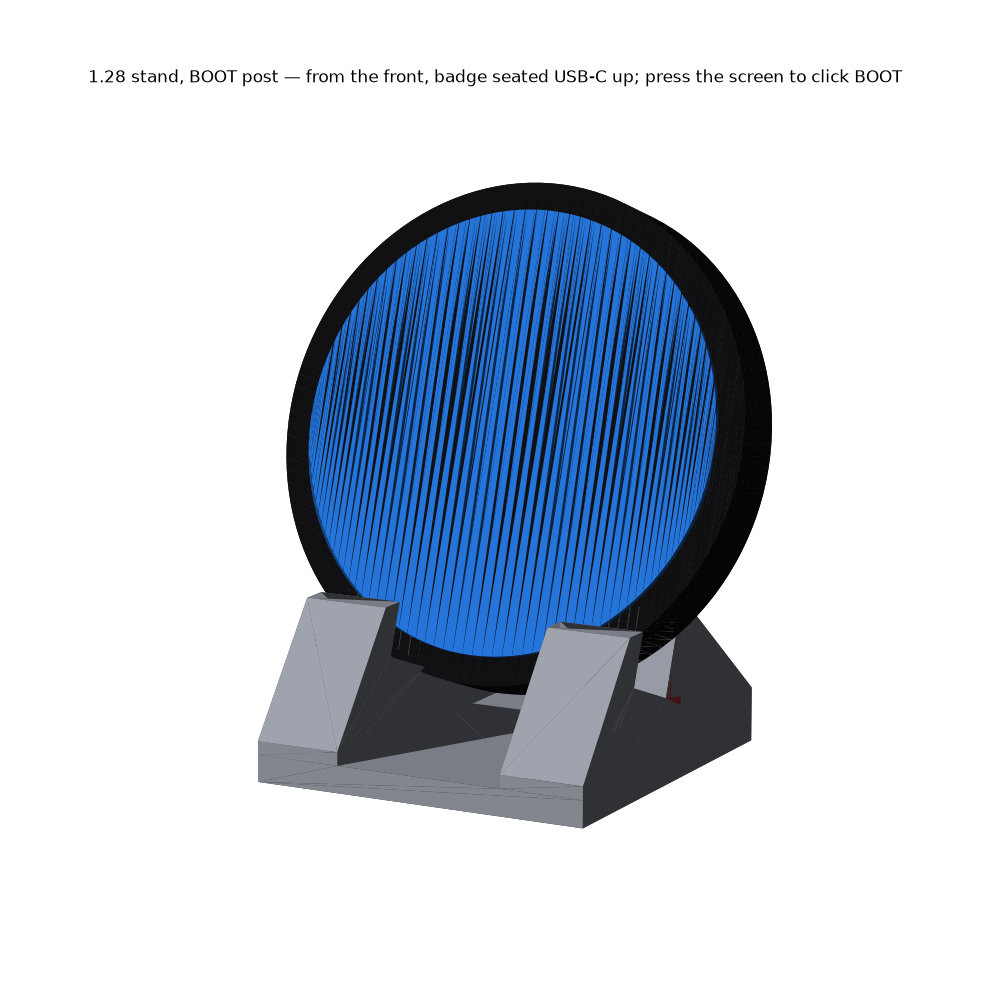
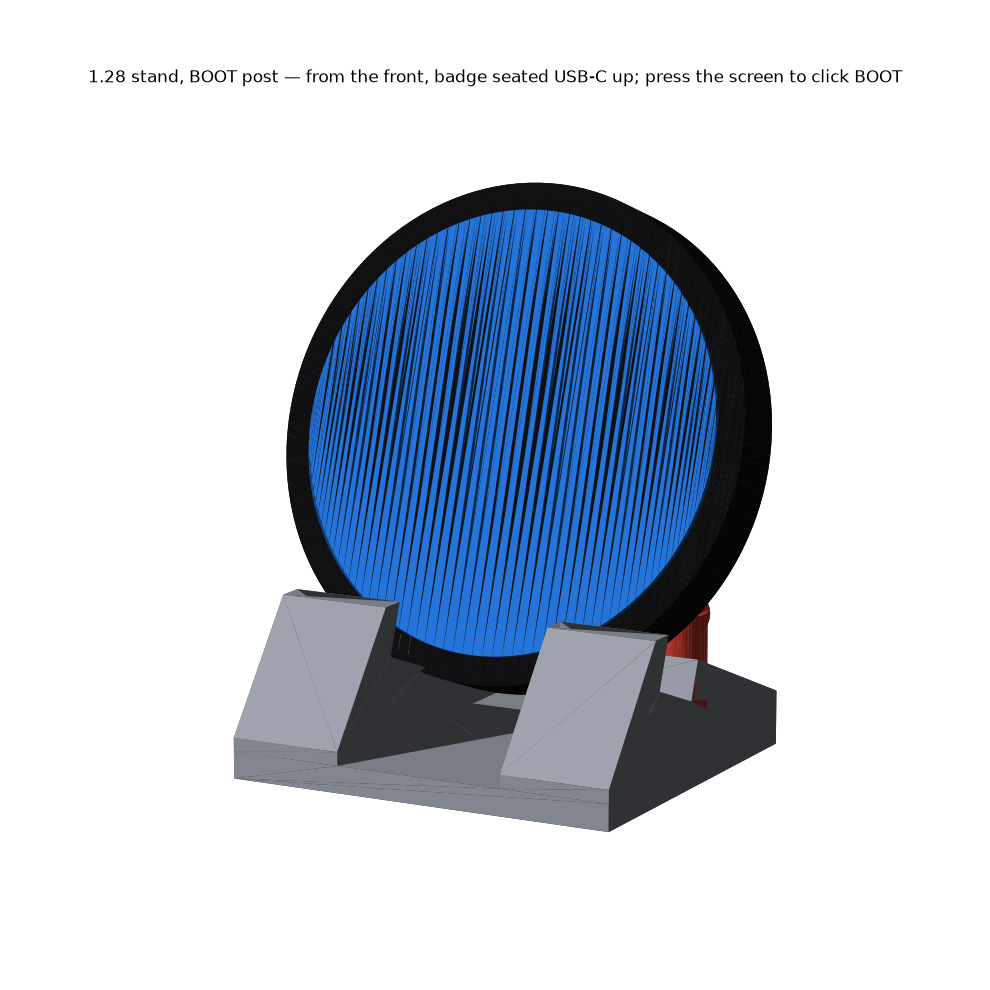
1.28: stop the groove rear wall short -- the switches are at the rim, not r 12
Measured BOOT/RESET off Aarons own back-view photo: r 15.5, 2.7 mm in from
the rim, where the drawing put them at r 12.2. At that radius the switch
housing sits below the groove rear lip, and since it stands ~1.7 mm off the
PCB the badge is ~6.4 mm thick there -- it cannot enter a 5.4 mm groove at
any depth. That propped the badge proud and forward, so the post could not
reach the button.

New rear_lip parameter stops the rear wall 3.0 mm up the board (front wall
untouched, badge still held 5 mm deep). Housings clear by 1.8 mm and the
pivot drops, taking press travel at the switch from 0.02 mm to 1.33 mm.
width 26 -> 30 to root the post. Both facts now asserted at build time.

Claude-Session: https://claude.ai/code/session_01H9ws9Nyoa4VGHhn154ro46

Changed region(s): [[0.5758, 0.6061, 0.7879, 0.8485], [0.2121, 0.5758, 0.3333, 0.7879], [0.697, 0.7576, 0.7576, 0.7879]]

diff --git a/build_stand_button.py b/build_stand_button.py
@@ -26,8 +26,14 @@ bs = importlib.util.module_from_spec(spec); spec.loader.exec_module(bs)
 
 BUTTON = (sys.argv[1] if len(sys.argv) > 1 else "BOOT").upper()
 # front-view mm from disc centre, +x = your right, +y = up   (back-view x negated)
-SWITCH = {"BOOT": (+8.95, -8.28), "RESET": (-9.67, -8.31)}[BUTTON]
+# MEASURED off Aaron's own back-view photo 09-20, not off the drawing: scale from
+# the PCB's widest row (36.50 mm, unforeshortened), |x| from the switch-to-switch
+# separation, height from the board's half-width at the switches' own row. The
+# drawing-derived (+8.95,-8.28) was 2.2 mm too high and 3.3 mm too far in, which
+# is why the housing fouled the groove. Overlay: reference/switches-from-photo.png
+SWITCH = {"BOOT": (+11.45, -10.51), "RESET": (-11.45, -10.51)}[BUTTON]
 CAP_H     = 2.0    # PCB surface to top of the switch actuator
+SW_BODY   = 3.5    # white housing, across (measured: 3.4 x 3.5 in the photo)
 REST_CLR  = 0.20   # post tip stands off the cap at rest
 POST_R    = 1.6    # Ø3.2 pad -- forgiving of ±1 mm in the measurement
 POST_LEN  = 14.0   # reaches back into the ridge/ramp
@@ -87,15 +93,24 @@ print(f"{BUTTON} switch at front-view ({SWITCH[0]:+.2f}, {SWITCH[1]:+.2f}) mm  -
       if SWITCH[0] > 0 else
       f"{BUTTON} switch at front-view ({SWITCH[0]:+.2f}, {SWITCH[1]:+.2f}) mm  ->  stand x={tip[0]:.2f} (shoulder 0..{x1:.1f})")
 print(f"post tip   y={tip[1]:.2f} z={tip[2]:.2f}   Ø{2*POST_R:.1f} pad; column Ø{2*(POST_R+0.4):.1f} stands {col_free:.1f} mm out of the shoulder, {buried:.1f} mm rooted")
-lip_h = p["base_h"]                                                 # groove opening (rear lip) height
-btn_up = (tip[2] - bc[1]) / axis[1]                                # along the board, from the groove floor
-print(f"switch sits {btn_up:.1f} mm up the badge; rear lip at {p['depth']:.0f} mm  ->  lever to the top ≈ "
-      f"{(2*R - btn_up)/(btn_up - p['depth']):.0f}x")
-# Can a press actually click it? Fully rocked back the badge lies on the rear lip with its bottom
-# front edge on the front wall; the cap must be able to travel well past the pad before that.
+# Everything below is measured along the board, up from the groove floor.
 SW_TRAVEL = 0.25                                                    # typical tact switch
-u_lip = p["depth"] + G/2*math.tan(math.radians(p["lean"]))         # rear lip, up the board from the groove floor
-u_sw  = (R - sag) + SWITCH[1]                                       # switch, up the board from the groove floor
+full_wall = p["depth"] + G/2*math.tan(math.radians(p["lean"]))     # rear wall if it ran to the ridge
+u_lip = p.get("rear_lip", full_wall)                                # where it actually stops
+u_sw  = (R - sag) + SWITCH[1]                                       # the switch
+print(f"switch sits {u_sw:.2f} mm up the badge; rear lip at {u_lip:.2f} (full wall would be {full_wall:.2f})"
+      f"  ->  lever to the top ≈ {(2*R - u_lip)/(u_sw - u_lip):.0f}x")
+
+# 1. The housing has to miss the groove entirely. It stands ~1.7 mm off the PCB back, so where it
+#    sits the badge is ~6.4 mm thick -- it cannot go into a 5.4 mm groove at any depth. This is
+#    what the 09-20 print hit: the housing bottomed on the rear wall and propped the badge up.
+housing_bottom = u_sw - SW_BODY/2
+print(f"switch housing reaches down to {housing_bottom:.2f} mm  ->  {housing_bottom - u_lip:+.2f} mm clear of the rear lip")
+assert housing_bottom > u_lip + 0.8, \
+    f"switch housing reaches {housing_bottom:.2f} mm, rear lip is at {u_lip:.2f} -- the badge cannot seat"
+
+# 2. Can a press actually click it? Fully rocked back the badge lies on the rear lip with its
+#    bottom front edge on the front wall; the cap must travel well past the pad before that.
 cap_max = G/2 + (u_sw - u_lip)*(G - T)/u_lip + CAP_H
 press = cap_max - tip_depth
 print(f"press travel {press:.2f} mm available at the switch (needs {SW_TRAVEL}); badge loose by {G-T:.1f} in the groove")

diff --git a/build_stands.py b/build_stands.py
@@ -45,8 +45,20 @@ def build_profiles(p):
     ridge_back  = (top_back[0]  + p["ridge_half"], H)
     ridge_front = (top_front[0] - p["ridge_half"], H)
 
-    upper = [(D, p["back_h"]), ridge_back, top_back, bottom_back,
-             bottom_front, top_front, ridge_front, (0.0, p["front_h"])]
+    # Optional: stop the groove's REAR wall short of the ridge. The 1.28 needs
+    # this -- its BOOT/RESET switches stand ~1.7 mm off the back of the PCB only
+    # 2.7 mm in from the rim, so with a full-height rear wall the switch housing
+    # is below the lip and simply cannot enter a 5.4 mm groove: the badge is
+    # propped proud and shoved forward (print 09-20). Lowering the rear wall
+    # also drops the pivot, which is what gives a press any travel at the switch.
+    rl = p.get("rear_lip")
+    if rl is None:
+        upper = [(D, p["back_h"]), ridge_back, top_back, bottom_back,
+                 bottom_front, top_front, ridge_front, (0.0, p["front_h"])]
+    else:
+        lip_back = (bottom_back[0] + axis[0]*rl, bottom_back[1] + axis[1]*rl)
+        upper = [(D, p["back_h"]), lip_back, bottom_back,
+                 bottom_front, top_front, ridge_front, (0.0, p["front_h"])]
 
     A = [(0.0, 0.0), (D, 0.0), (D, f)] + upper + [(0.0, f)]
     B = [(0.0, 0.0), (D, 0.0), (D, f), (0.0, f)]
@@ -140,8 +152,9 @@ BOARDS = {
         label   = "ESP32-S3-LCD-1.28 (SKU 26541)",
         board_d = 36.5, thick = 4.7, screen_d = 32.4,   # PCB + display module at the rim (gauge, 09-18)
         gap = 5.4, lean = 20, depth = 5.0,             # gauge slot 5.0 + 0.4: the leaned walls stair-step ~0.1 each into the slot (print 09-20)
+        rear_lip = 3.0,                                # rear wall stops here: clears the BOOT/RESET housings (photo, 09-20)
         base_d = 27.0, base_h = 12.0, front_h = 3.0, back_h = 4.0,
-        ridge_half = 2.0, width = 26.0, slot_y = 12.0,
+        ridge_half = 2.0, width = 30.0, slot_y = 12.0,  # 26 -> 30: the switches are at |x| 11.45, the post needs shoulder
         notch_w = 13.0, notch_floor = 2.0,
         stl = "stl/small/Stand.stl",
     ),
@@ -217,6 +230,10 @@ if __name__ == "__main__":
         print(f"  cable notch   {p['notch_w']:.0f} wide, floor at z={p['notch_floor']:.1f}, "
               f"{p['base_h']-p['notch_floor']:.1f} tall, open front-to-back")
         print(f"  shoulders     {shoulder:.1f} mm each side")
+        full_wall = p["depth"] + (p["gap"]/2.0)*math.tan(math.radians(p["lean"]))
+        if p.get("rear_lip") is not None:
+            print(f"  rear wall     stops {p['rear_lip']:.1f} mm up the board "
+                  f"(full wall would be {full_wall:.2f}) -- switch clearance")
         clear = bc[1] - sag - p["notch_floor"]
         print(f"  disc sag      {sag:.2f} mm over the notch "
               f"(engagement {p['depth']+sag:.1f} mm)")
@@ -246,4 +263,11 @@ if __name__ == "__main__":
         assert clear >= 3.5, \
             f"{key}: only {clear:.2f} mm under the rim -- a cable will not pass"
         assert p["width"] < p["board_d"], f"{key}: stand wider than the board"
+        if p.get("rear_lip") is not None:
+            rl = p["rear_lip"]
+            assert 0 < rl < full_wall, f"{key}: rear_lip {rl} not inside the groove (wall is {full_wall:.2f})"
+            lip_z = bc[1] + perp[1]*(p["gap"]/2.0) + axis[1]*rl
+            assert lip_z > p["back_h"] + 0.5, \
+                f"{key}: rear lip z={lip_z:.2f} not above the back face {p['back_h']} -- ramp would invert"
+            assert lip_z > p["notch_floor"] + 0.5, f"{key}: rear lip below the notch floor"
         print("  checks        OK")

diff --git a/docs/DESIGN.md b/docs/DESIGN.md
@@ -86,6 +86,31 @@ wider groove *helps*. Replaced: pad at `T/2 + CAP_H + REST_CLR` from the centre
 Now **0.8 mm** of travel, ≥0.7 for any rim 4.5–4.9 thick, and
 `build_stand_button.py` asserts ≥ 2× switch travel.
 
+**The switches are at the rim, so the groove's rear wall had to go** (09-20).
+The 5.4 stand seated the badge but BOOT would not click: the white switch
+housing was hard against the groove's rear wall. Measured the switches off
+Aaron's own back-view photo instead of the drawing — **r 15.5, only 2.7 mm in
+from the rim**, where the drawing put them at r 12.2. At that radius the housing
+sits *below* the rear lip, and since it stands ~1.7 mm off the PCB the badge is
+~6.4 mm thick there: it cannot enter a 5.4 mm groove **at any depth**. The badge
+was propped proud and pushed forward, which is why the post could not reach.
+
+Fix: `rear_lip`, a new optional parameter that stops the groove's **rear** wall
+short of the ridge (1.28: 3.0 mm, where the full wall would be 5.98). The front
+wall is untouched, so the badge is still held 5 mm deep. This does two jobs —
+the housings clear by 1.8 mm, and the **pivot drops**, which is what gives a
+press travel at all: 0.02 mm at the old full-height lip, **1.33 mm** now, against
+the ~0.25 mm a tact switch needs. Lever to the top of the screen ≈ 9×.
+
+Why not just a shallower groove: the housing reaches down to 4.8 mm up the
+board, so clearing it with depth alone means a ~2 mm groove — too little to hold
+the badge. Lowering only the rear wall keeps the depth and buys the travel.
+
+`width` 26 → 30 came with it: the post sits at |x| 11.45 and needed shoulder to
+root in. `build_stand_button.py` now asserts both things that were silently
+false before — that the housing clears the rear lip, and that a press has ≥ 2×
+the switch's travel.
+
 **Cup stand, and what it caught before printing** (09-18). A test of the pod's
 cup at ~16 g: `cup()` pulled out of `pod()` (pod STL byte-identical after the
 refactor), put on a 20° desk base, exported face-up. Rendering it against the

diff --git a/BOARDS.md b/BOARDS.md
@@ -76,14 +76,25 @@ its glass and PCB are laminated into one puck.
 
 ### Switch positions (measured)
 
-Not dimensioned on Waveshare's drawing. Measured by fitting the disc to R 18.25
-and locating the two switch caps by colour — overlay in
-`reference/esp32-s3-lcd-1.28-switch-positions.png`. Accuracy ~±0.5 mm.
+**Measured off a photo of Aaron's own board** (09-20), not off the drawing. The
+drawing-derived numbers were **3.3 mm too far in and 2.2 mm too high**, which is
+what made the button stand fail: the switch housing landed below the groove's
+rear lip and could not enter it. Overlay:
+`reference/esp32-s3-lcd-1.28-switch-positions-photo.png`.
 
-| switch | back view (+x right, +y up) | front view | r | from bottom |
+Scale from the PCB's widest row (36.50 mm — horizontal distances are not
+foreshortened by the 20° lean); |x| from the switch-to-switch separation; height
+from the board's half-width at the switches' own row. Accuracy ~±0.4 mm.
+
+| switch | back view (+x right, +y up) | front view | r | in from the rim |
 |---|---|---|---|---|
-| **BOOT** (GPIO0) | (−9.0, −8.3) | (**+9.0**, −8.3) — lower **right** as you look at it | 12.2 | 47° |
-| **RESET** | (+9.7, −8.3) | (−9.7, −8.3) — lower **left** | 12.8 | 49° |
+| **BOOT** (GPIO0) | (−11.45, −10.5) | (**+11.45**, −10.5) — lower **right** as you look at it | 15.5 | **2.7 mm** |
+| **RESET** | (+11.45, −10.5) | (−11.45, −10.5) — lower **left** | 15.5 | **2.7 mm** |
+
+They sit **close to the rim** — that is the fact that matters to anything
+gripping the edge. The old drawing-fitted overlay
+(`reference/esp32-s3-lcd-1.28-switch-positions.png`) is kept for comparison but
+is **superseded**.
 
 With the USB-C chord at the top. Cap ≈ Ø1.9, switch body ~3.5 mm square,
 ~2 mm tall off the PCB.

diff --git a/docs/PRINT-LOG.md b/docs/PRINT-LOG.md
@@ -23,10 +23,21 @@ Template:
   the pad looks perhaps ~1 mm inboard of the switch centre, but the shot is
   blurred and the post is nearer the lens than the switch, so not trusted.
   The column printed with a rough, leaning top (a Ø4 column alone at 0.6 mm).
-- not yet known: **does a press click BOOT?** Asked.
+- **then he pressed it: no click.** "the bottom white plastic around the button
+  itself is pushed up against the back wall, so the arm can't reach." Third
+  photo, side-on in his hand. Measured the switches off his own back-view photo
+  rather than guessing again: they are at r **15.5**, only **2.7 mm in from the
+  rim** — the drawing said r 12.2. So the housing sits **below** the groove's
+  rear lip and cannot enter a 5.4 mm groove at all; the badge was propped proud
+  and shoved forward, which is also why the post could not reach.
 - also seen: H1/H2 are fitted with tall female sockets. The pod's 1.28 cups
   already relieve for them (`hdr`, ~8.5 off the PCB) — no change.
-- fit numbers to change: none until he reports the click.
+- fit numbers to change: not a fit number — a design fault. 1.28 gains
+  `rear_lip = 3.0` (the groove's rear wall stops short of the ridge so the
+  switch housings clear, and the pivot drops so a press has travel),
+  `width` 26 → 30 (the switches are at |x| 11.45; the post needs shoulder), and
+  `SWITCH` in `build_stand_button.py` is now the measured pair. Details in
+  DESIGN.md.
 - photo: sent in chat 2026-09-20 (black print on the bamboo desk; side view, and from behind).
 
 ## 2026-09-20 — 1.28 button-post stand, 5.0 mm groove (`small/Stand - … button.stl`)

diff --git a/README.md b/README.md
@@ -10,7 +10,7 @@ flexes, no fasteners.
 
 | board | stand | groove | notch | screen top | material |
 |---|---|---|---|---|---|
-| ESP32-S3-LCD-1.28 (SKU 26541) | [`stl/small/Stand.stl`](stl/small/Stand.stl) | 5.4 × 5 mm | 13 mm | 41.6 mm | 4.6 g |
+| ESP32-S3-LCD-1.28 (SKU 26541) | [`stl/small/Stand.stl`](stl/small/Stand.stl) | 5.4 × 5 mm (rear wall 3 mm) | 13 mm | 41.6 mm | 4.6 g |
 | ESP32-S3-Touch-LCD-1.46, cover glass | [`stl/large/Stand - cover glass.stl`](<stl/large/Stand - cover glass.stl>) | 13.1 × 8 mm | 14 mm | 50.6 mm | 8.9 g |
 | ESP32-S3-Touch-LCD-1.46, bare | [`stl/large/Stand - no cover glass.stl`](<stl/large/Stand - no cover glass.stl>) | 11.5 × 8 mm | 14 mm | 48.5 mm | 8.2 g |
 
